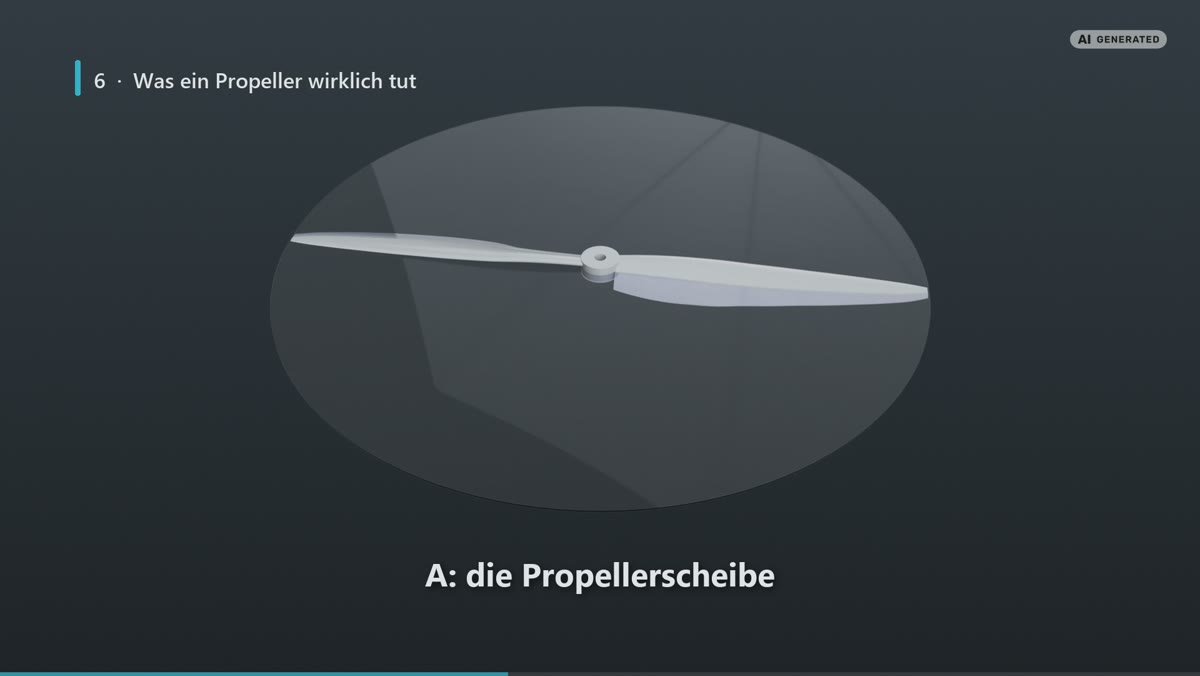
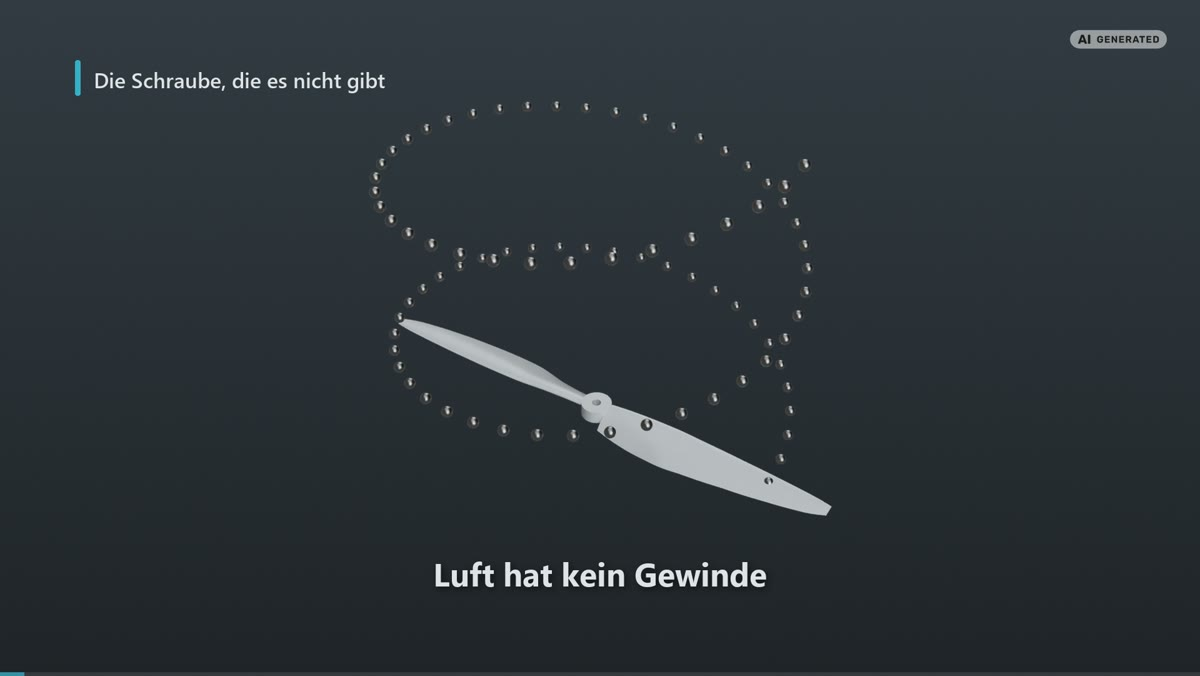
Propeller-Ratgeber Kapitel 1: Standbild der Luftschraube statt der Scheibe aus Videokapitel 6

diff --git a/ratgeber-propeller.html b/ratgeber-propeller.html
@@ -125,9 +125,9 @@
     <h2 id="k1">1. Was ein Propeller wirklich tut</h2>
     <!-- bild:start propeller-scheibe -->
     <figure class="artikel-bild">
-      <img src="assets/ratgeber/propeller-scheibe.jpg" alt="CAD-Rendering: ein Zweiblatt-Propeller in einer halbtransparenten Kreisscheibe, die seine Blattspitzen beschreiben"
+      <img src="assets/ratgeber/propeller-scheibe.jpg" alt="CAD-Rendering: ein Zweiblatt-Propeller in einer Schraubenlinie, darunter die Zeile „Luft hat kein Gewinde“"
         width="1200" height="675" loading="lazy">
-      <figcaption>Die Kreisfläche, die die Blätter überstreichen, heißt Propellerscheibe.  Sie wächst mit dem Quadrat des Durchmessers.</figcaption>
+      <figcaption>In der Luft gibt es kein Gewinde, an dem sich der Propeller entlangziehen könnte.  Er greift die Luft vor sich und wirft sie nach hinten.</figcaption>
     </figure>
 <!-- bild:ende propeller-scheibe -->
 
